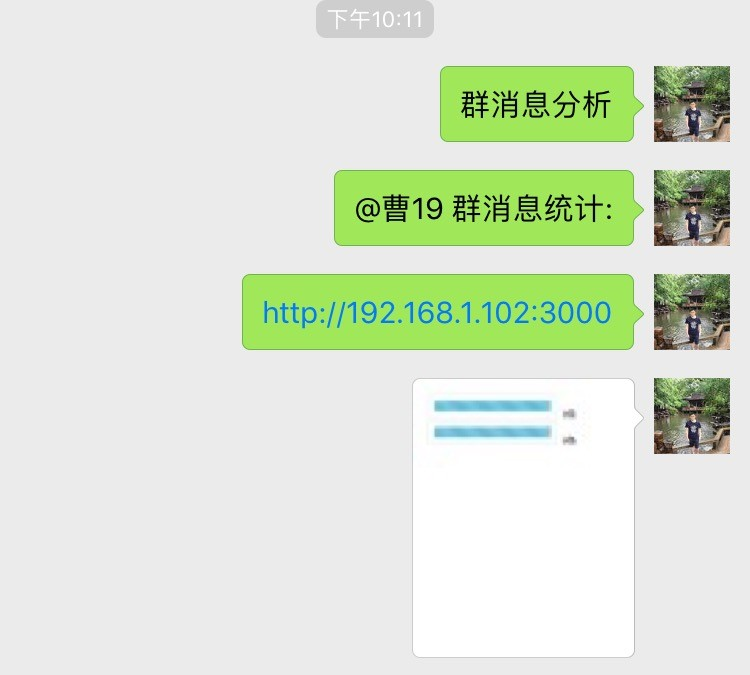
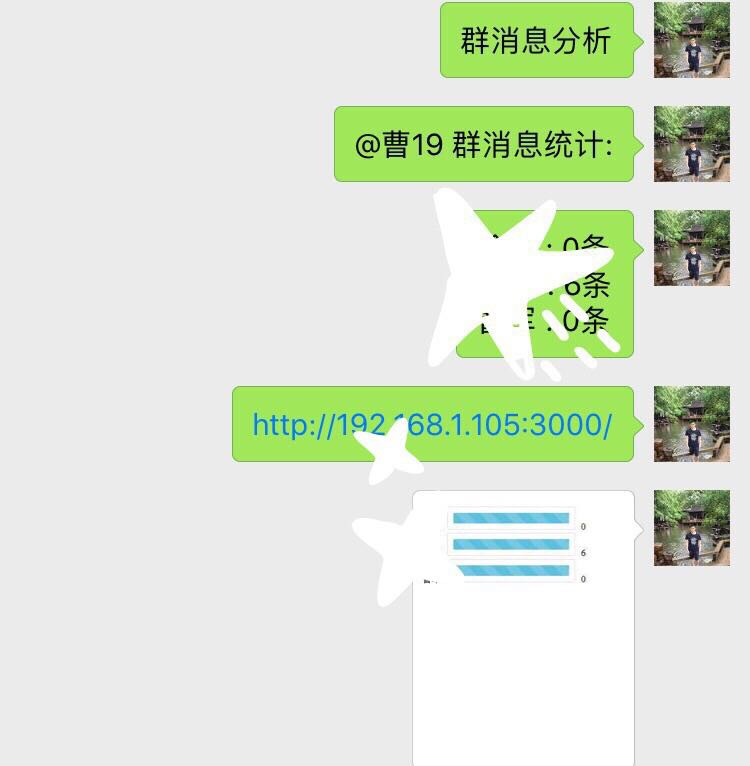
final version

Changed region(s): [[0.3067, 0.0, 0.9813, 0.7778]]

diff --git a/demo.ts b/demo.ts
@@ -21,6 +21,32 @@ Hello`
 console.log(welcome)
 const bot = Wechaty.instance({ profile: Config.DEFAULT_PROFILE })
 
+
+var express = require('express');
+		var app = express();
+		app.use(express.static('public'));
+		app.get('/', function (req, res) {
+		 res.sendFile( __dirname + "/" + "index.html" );
+	
+		});
+	    
+		
+		app.get('/pic',function(req,res){
+            var data={  data1: messagesarry
+            }
+		res.send(data);
+		});
+		
+		
+		
+		var server = app.listen(3000, function () {
+		var host = server.address().address;
+		var port = server.address().port;
+
+		console.log('Example app listening at http://%s:%s', host, port);
+		});	
+
+
 bot
 .on('scan', (url, code)=>{
     let loginUrl = url.replace('qrcode', 'l')
@@ -198,13 +224,7 @@ if((/^群消息分析$/i).test(content))
 		console.log(messagesarrysort);
 		
 		
-		var express = require('express');
-		var app = express();
-		app.use(express.static('public'));
-		app.get('/', function (req, res) {
-		 res.sendFile( __dirname + "/" + "index.html" );
-	
-		});
+		
 	    
 		
 		app.get('/pic',function(req,res){
@@ -213,17 +233,12 @@ if((/^群消息分析$/i).test(content))
 		res.send(data);
 		});
 		
+	
 		
-		
-		var server = app.listen(3000, function () {
-		var host = server.address().address;
-		var port = server.address().port;
-
-		console.log('Example app listening at http://%s:%s', host, port);
-		});	
+			
         setTimeout(function() {
             
-			croom.say("http://192.168.1.105:3000")
+			croom.say("http://192.168.1.105:3000/")
                    }, 1000);
 
 
@@ -234,7 +249,7 @@ if((/^群消息分析$/i).test(content))
 		const page = await instance.createPage();
 
 		await page.property('viewportSize', {width: 400, height: 480});
-		const status = await page.open('http://192.168.1.105:3000');
+		const status = await page.open('http://192.168.1.105:3000/');
 		console.log(`Page opened with status [${status}].`);
 
 		await page.render('chat.jpg');
@@ -250,6 +265,7 @@ if((/^群消息分析$/i).test(content))
 				   
 		})
 		
+		messagesarry = [];
 		
 		
   }
